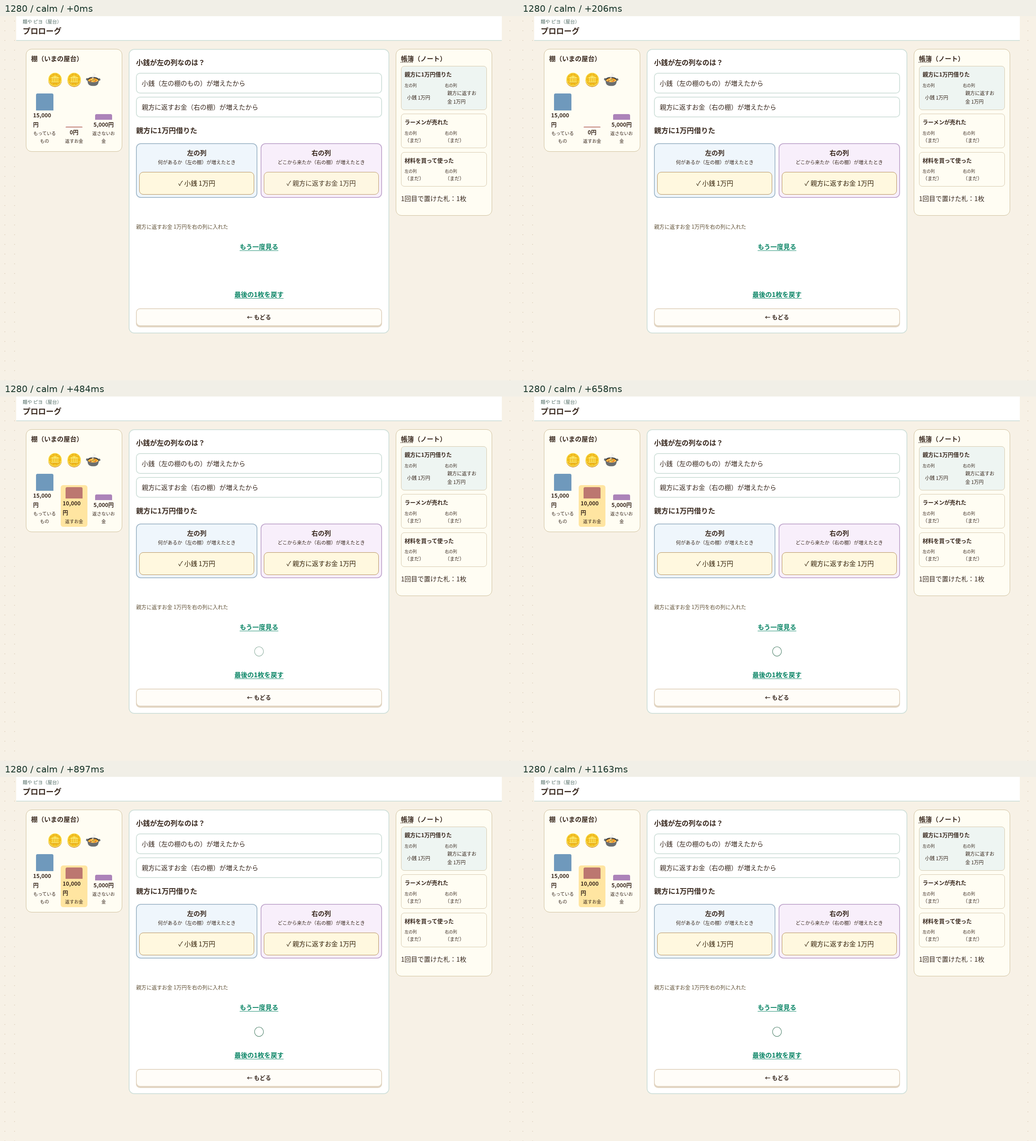
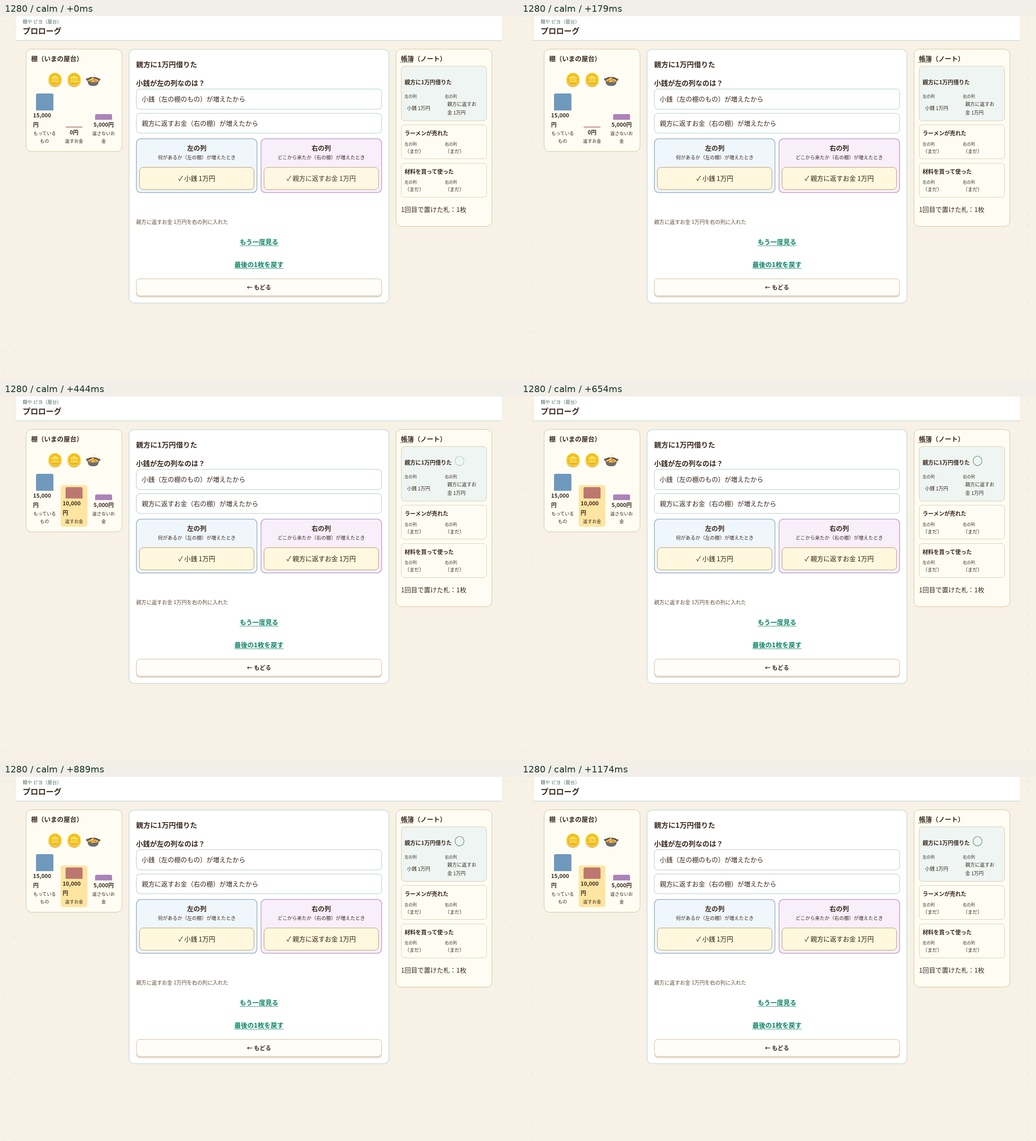
手本の音待ちと理由・行の印の位置、ブラウザ起動失敗時の終了を直す

diff --git a/boki2/js/sim/engine.js b/boki2/js/sim/engine.js
@@ -218,7 +218,7 @@
   const focusKey = (el) => (el && el.attributes ? [el.tagName, ...[...el.attributes].filter((a) => a.name.startsWith('data-') || a.name === 'name').map((a) => `${a.name}=${a.value}`)].join('|') : '');
   function frame(body, headerYear) {
     app.classList.remove('j-note-shell');
-    if (RAMEN && B.journal) { B.journal.cleanup(); B.journal.configure({ motion: S.motion, sound: S.sound || 'on', soundAsked: !!S.soundAsked }); }
+    if (RAMEN && B.journal) { B.journal.cleanup(); B.journal.configure({ motion: S.motion, sound: S.soundAsked ? (S.sound || 'on') : 'off', soundAsked: !!S.soundAsked }); }
     if(headerYear==null&&RAMEN&&!month())headerYear=D.months[D.months.length-1].year||1;
     const was = document.activeElement, key = kbUser && was && app.contains(was) && was !== app ? focusKey(was) : null, scrolled = window.scrollY;
     onFocus = null; app.oninput = null; app.onkeydown = null;
@@ -773,10 +773,10 @@
     const logo = RAMEN ? `<div class="s-logo" data-nofuri>${esc(shopName())}<br><b>ラーメン</b></div><p>屋台の一杯から、町いちばんの店へ。<br>一杯を作り、値段を決め、お金の出入りを記録して店を育てよう。</p>` : '<div class="s-logo">ピヨ<br><b>商店</b></div><p>小さな屋台が、工場をもつ会社になるまで。<br>お金の出入りを記録して、会社を育てよう。</p>';
     // セーブスロット（ラーメン版。n.15）：店ごとに3つ。学びの記録はスロットをまたいで共有
     const slots = RAMEN && DOC ? `<div class="s-who s-slots"><small>セーブスロット（学びの記録は共通）</small>${DOC.slots.map((sl, k) => `<button class="${sl.id === S.__slot ? 'on' : ''}" data-slot="${sl.id}">${k + 1}：${esc(sl.run && sl.label ? sl.label : 'あき')}</button>`).join('')}</div>` : '';
-    app.innerHTML = `<main class="s-main s-title">${logo}${slots}<p class="muted" style="font-size:.8rem">受験する年度：${esc(MODE_TXT[modeOf()])}</p>${who}<button class="btn wide" data-start>${started ? 'つづきから' : 'はじめる'}</button>${started ? '<button class="link" data-reset>最初からやり直す</button>' : ''}<details class="s-more"><summary>ゲームの設定</summary>${RAMEN && B.journal ? `<div class="s-who"><small>動きの強さ</small>${[['rich','派手'],['normal','ふつう'],['calm','控えめ']].map(([v,t]) => `<button data-motion="${v}" aria-pressed="${B.journal.motion(S.motion) === v}">${t}</button>`).join('')}</div><div class="s-who"><small>音</small>${[['on','出す'],['off','消す']].map(([v,t]) => `<button data-sound="${v}" aria-pressed="${(S.sound || 'on') === v}">${t}</button>`).join('')}</div>` : ''}${RAMEN && S.profileOk ? `<div class="s-who"><small>店の名前・あなたの名前（いま：${esc(shopName())}・${esc(playerName())}）</small><button data-rename>名前を変える</button></div>` : ''}<div class="s-who"><small>受験する年度（問題の出し方が変わる）</small><button class="${modeOf() === '2026' ? 'on' : ''}" data-mode="2026">2027年3月まで</button><button class="${modeOf() !== '2026' ? 'on' : ''}" data-mode="2027">2027年4月から</button></div>${S.pro3 && S.pro3.on ? '<div class="s-who"><small>近道（3級の型は自動）</small><button data-p3off>近道を切る（3級の型も手で書く）</button></div>' : ''}<div class="s-who"><small>ふりがな</small><button class="${S.furigana !== 'always' ? 'on' : ''}" data-furi="auto">はじめてと、押したとき</button><button class="${S.furigana === 'always' ? 'on' : ''}" data-furi="always">いつも</button></div><div class="s-who"><small>文字の大きさ（書類と表も同じ割合で大きくなる）</small>${[100, 125, 150].map((z) => `<button class="${(S.textScale || 100) === z ? 'on' : ''}" data-tscale="${z}">${z}%</button>`).join('')}</div><div class="s-who"><small>検定会場の時間（読むのに時間がかかる人のための、はじめからの延長）</small>${[0, 10, 20, 30].map((z) => `<button class="${(S.examExtra || 0) === z ? 'on' : ''}" data-exx="${z}">${z ? `+${z}分` : 'なし'}</button>`).join('')}</div><p class="muted" style="font-size:12px" data-saveword>${esc(saveWord())}</p><button class="btn wide ghost" data-export>保存データをファイルにする</button><label class="btn wide ghost s-file">ファイルから続きを読み込む<input type="file" accept="application/json,.json" data-import hidden></label><button class="btn wide ghost" data-test>確認テスト（協力してくれる人向け）</button></details></main>`;
+    app.innerHTML = `<main class="s-main s-title">${logo}${slots}<p class="muted" style="font-size:.8rem">受験する年度：${esc(MODE_TXT[modeOf()])}</p>${who}<button class="btn wide" data-start>${started ? 'つづきから' : 'はじめる'}</button>${started ? '<button class="link" data-reset>最初からやり直す</button>' : ''}<details class="s-more"><summary>ゲームの設定</summary>${RAMEN && B.journal ? `<div class="s-who"><small>動きの強さ</small>${[['rich','派手'],['normal','ふつう'],['calm','控えめ']].map(([v,t]) => `<button data-motion="${v}" aria-pressed="${B.journal.motion(S.motion) === v}">${t}</button>`).join('')}</div><div class="s-who"><small>音</small>${[['on','出す'],['off','消す']].map(([v,t]) => `<button data-sound="${v}" aria-pressed="${(S.soundAsked ? (S.sound || 'on') : 'off') === v}">${t}</button>`).join('')}</div>` : ''}${RAMEN && S.profileOk ? `<div class="s-who"><small>店の名前・あなたの名前（いま：${esc(shopName())}・${esc(playerName())}）</small><button data-rename>名前を変える</button></div>` : ''}<div class="s-who"><small>受験する年度（問題の出し方が変わる）</small><button class="${modeOf() === '2026' ? 'on' : ''}" data-mode="2026">2027年3月まで</button><button class="${modeOf() !== '2026' ? 'on' : ''}" data-mode="2027">2027年4月から</button></div>${S.pro3 && S.pro3.on ? '<div class="s-who"><small>近道（3級の型は自動）</small><button data-p3off>近道を切る（3級の型も手で書く）</button></div>' : ''}<div class="s-who"><small>ふりがな</small><button class="${S.furigana !== 'always' ? 'on' : ''}" data-furi="auto">はじめてと、押したとき</button><button class="${S.furigana === 'always' ? 'on' : ''}" data-furi="always">いつも</button></div><div class="s-who"><small>文字の大きさ（書類と表も同じ割合で大きくなる）</small>${[100, 125, 150].map((z) => `<button class="${(S.textScale || 100) === z ? 'on' : ''}" data-tscale="${z}">${z}%</button>`).join('')}</div><div class="s-who"><small>検定会場の時間（読むのに時間がかかる人のための、はじめからの延長）</small>${[0, 10, 20, 30].map((z) => `<button class="${(S.examExtra || 0) === z ? 'on' : ''}" data-exx="${z}">${z ? `+${z}分` : 'なし'}</button>`).join('')}</div><p class="muted" style="font-size:12px" data-saveword>${esc(saveWord())}</p><button class="btn wide ghost" data-export>保存データをファイルにする</button><label class="btn wide ghost s-file">ファイルから続きを読み込む<input type="file" accept="application/json,.json" data-import hidden></label><button class="btn wide ghost" data-test>確認テスト（協力してくれる人向け）</button></details></main>`;
     app.onclick = (e) => {
       const motion = e.target.closest('button[data-motion]'), sound = e.target.closest('[data-sound]');
-      if (motion || sound) { if (motion) S.motion = motion.dataset.motion; if (sound) { S.sound = sound.dataset.sound; S.soundAsked = true; } B.journal.configure({ motion: S.motion, sound: S.sound || 'on', soundAsked: !!S.soundAsked }); save(); titleScreen(); return; }
+      if (motion || sound) { if (motion) S.motion = motion.dataset.motion; if (sound) { S.sound = sound.dataset.sound; S.soundAsked = true; } B.journal.configure({ motion: S.motion, sound: S.soundAsked ? (S.sound || 'on') : 'off', soundAsked: !!S.soundAsked }); save(); titleScreen(); return; }
       if (e.target.closest('[data-start]')) { const go = () => { if (S.phase === 'title') S.phase = started ? 'event' : 'monthIntro'; save(); render(); }; if (!started && RAMEN && !S.profileOk) return nameScreen(() => (S.modeOk ? pro3Ask(go) : modeScreen(() => pro3Ask(go)))); if (!started && !S.modeOk) return modeScreen(() => pro3Ask(go)); go(); }
       if (e.target.closest('[data-reset]')) { if (!confirm(RAMEN ? 'このスロットの店を消して、最初からやり直しますか？（学びの記録は残る）' : 'この人の記録を消して、最初からやり直しますか？')) return; S = freshKeep(); S.phase = 'monthIntro'; save(); render(); }
       const pb = e.target.closest('[data-prof]');
@@ -1260,16 +1260,15 @@
       // 理由の位置を交互にし、答えの位置だけで進めない。
       const choices = li % 2 ? [1, 0] : [0, 1];
       const shelfHtml = `<aside class="j-shelf" aria-label="棚（いまの屋台）"><h3>棚（いまの屋台）</h3><div data-shelf-art class="j-shelf-art" role="img" aria-label="小銭と寸胴なべの絵">🪙 🪙 🍲</div><div class="j-bands">${names.map((name, k) => `<div data-band="${k}" class="j-band j-band-${k}"><div data-bar style="height:${Math.max(2, values[k] / 350)}px"></div><b data-number>${fmt(values[k])}円</b><small>${name}</small></div>`).join('')}</div></aside>`;
-      const notebook = `<aside class="j-notebook"><h3>帳簿（ノート）</h3>${s.lines.map((l, k) => `<section class="j-bookrow ${l.cards.every((_, ci) => sub[`${k}-${ci}`]) ? 'j-complete' : ''}" data-bookrow="${k}"><h4>${esc(l.title)}</h4><div>${['L', 'R'].map(side => `<div><small>${side === 'L' ? '左の列' : '右の列'}</small>${all.filter(c => c.li === k && sub[c.id] === side).map(c => `<button class="j-book-card" data-edit-row="${k}" data-edit-card="${c.id}" aria-label="${esc(J.label(c, true))}を直す">${esc(J.label(c, true))}</button>`).join('') || '（まだ）'}</div>`).join('')}</div></section>`).join('')}<p>1回目で置けた札：${(S.noteLog || []).filter(x => x.ev === ev.id && !x.demo && x.firstCorrect).length}枚</p></aside>`;
+      const notebook = `<aside class="j-notebook"><h3>帳簿（ノート）</h3>${s.lines.map((l, k) => `<section class="j-bookrow ${l.cards.every((_, ci) => sub[`${k}-${ci}`]) ? 'j-complete' : ''}" data-bookrow="${k}"><h4>${esc(l.title)}${l.cards.every((_, ci) => sub[`${k}-${ci}`]) ? ' <span data-circle class="j-circle" aria-label="行がそろった">○</span>' : ''}</h4><div>${['L', 'R'].map(side => `<div><small>${side === 'L' ? '左の列' : '右の列'}</small>${all.filter(c => c.li === k && sub[c.id] === side).map(c => `<button class="j-book-card" data-edit-row="${k}" data-edit-card="${c.id}" aria-label="${esc(J.label(c, true))}を直す">${esc(J.label(c, true))}</button>`).join('') || '（まだ）'}</div>`).join('')}</div></section>`).join('')}<p>1回目で置けた札：${(S.noteLog || []).filter(x => x.ev === ev.id && !x.demo && x.firstCorrect).length}枚</p></aside>`;
       const editLi = ns.editLi != null ? ns.editLi : li, shownCards = all.filter(c => c.li === editLi);
       const reason = complete && !ns.reasons[li] && !ready && ns.editLi == null;
       const ask = ns.askOpen != null && !sub['ask' + ns.askOpen] ? s.lines[ns.askOpen].ask : null;
       const blocked = ns.blocked ? `<div class="j-feedback" role="alert"><p data-react-text>${esc(ns.message)}</p><button class="btn" data-react-close>説明を閉じる</button></div>` : '';
-      const soundPrompt = !S.soundAsked ? `<div class="j-sound-prompt"><p>音を出す？</p><button data-j-sound="on">出す</button><button data-j-sound="off">消す</button></div>` : '';
-      const body = `<div class="j-layout" data-journal>${shelfHtml}<section class="s-card j-center">${soundPrompt}${reason ? `<p class="s-q">${reasonQs[li]}</p><div class="s-opts">${choices.map(k => `<button class="s-opt" data-note-reason="${li}-${k}">${reasonOpts[li][k]}</button>`).join('')}</div>` : `${ns.demoDone ? `<details class="j-say-again"><summary>ピヨの説明</summary>${talk(s.say)}</details>` : talk(s.say)}<p class="s-q">${esc(s.q)}</p>`}<h3>${esc(s.lines[editLi].title)}</h3>${sub.ask2 ? '<p class="j-reverse">へったときは反対の列</p>' : ''}${ask ? `${talk(ask.say)}<div class="s-opts">${ask.opts.map((o, k) => `<button class="s-opt" data-ask="${ns.askOpen}-${k}">${esc(o.t)}</button>`).join('')}</div>${msg ? `<p role="alert">${esc(msg)}</p>` : ''}` : ''}${J.markup({ cards: shownCards, columns: noteColumns, positions: sub, blocked: Object.keys(ns.blocks) })}${blocked}${ns.reasonMessage ? `<p class="s-react" role="status">${esc(ns.reasonMessage)}</p>` : ''}${ns.editLi != null ? '<button class="btn ghost" data-edit-done>ノートにもどる</button>' : ''}${!ns.demoDone ? '<p class="j-demo-text" data-demo-text>ピヨの手本。<strong class="j-keyword">小銭</strong>が増えた。左の棚のものが増えたから、左の列ピヨ</p><button class="btn ghost" data-demo-skip>手本を飛ばす</button>' : '<button class="link" data-demo-replay>もう一度見る</button>'}${ready ? `<p data-circle class="j-circle">○</p>${talk(s.after)}<button class="btn wide" data-step>つぎへ</button>` : reason ? '<p data-circle class="j-circle">○</p>' : ''}${hist.length ? '<button class="link" data-undo>最後の1枚を戻す</button>' : ''}<button class="btn ghost sm" data-back>← もどる</button></section>${notebook}</div>`;
+      const body = `<div class="j-layout" data-journal>${shelfHtml}<section class="s-card j-center">${reason ? '' : `${ns.demoDone ? `<details class="j-say-again"><summary>ピヨの説明</summary>${talk(s.say)}</details>` : talk(s.say)}<p class="s-q">${esc(s.q)}</p>`}<h3 data-note-title>${esc(s.lines[editLi].title)}</h3>${reason ? `<div data-note-reason-block><p class="s-q">${reasonQs[li]}</p><div class="s-opts">${choices.map(k => `<button class="s-opt" data-note-reason="${li}-${k}">${reasonOpts[li][k]}</button>`).join('')}</div></div>` : ''}${sub.ask2 ? '<p class="j-reverse">へったときは反対の列</p>' : ''}${ask ? `${talk(ask.say)}<div class="s-opts">${ask.opts.map((o, k) => `<button class="s-opt" data-ask="${ns.askOpen}-${k}">${esc(o.t)}</button>`).join('')}</div>${msg ? `<p role="alert">${esc(msg)}</p>` : ''}` : ''}${J.markup({ cards: shownCards, columns: noteColumns, positions: sub, blocked: Object.keys(ns.blocks) })}${blocked}${ns.reasonMessage ? `<p class="s-react" role="status">${esc(ns.reasonMessage)}</p>` : ''}${ns.editLi != null ? '<button class="btn ghost" data-edit-done>ノートにもどる</button>' : ''}${!ns.demoDone ? '<p class="j-demo-text" data-demo-text>ピヨの手本。<strong class="j-keyword">小銭</strong>が増えた。左の棚のものが増えたから、左の列ピヨ</p><button class="btn ghost" data-demo-skip>手本を飛ばす</button>' : '<button class="link" data-demo-replay>もう一度見る</button>'}${ready ? `${talk(s.after)}<button class="btn wide" data-step>つぎへ</button>` : ''}${hist.length ? '<button class="link" data-undo>最後の1枚を戻す</button>' : ''}<button class="btn ghost sm" data-back>← もどる</button></section>${notebook}</div>`;
       keepBoard(); frame(body); app.classList.add('j-note-shell'); $('#s-main', app)?.classList.add('j-main');
       const root = $('[data-journal]', app);
-      root.addEventListener('pointerdown', e => { if (!ns.demoDone && S.soundAsked && !e.target.closest('[data-j-sound]')) { e.preventDefault(); e.stopImmediatePropagation(); ns.demoSkipped = true; notePlace('0-0', 'L', { input: 'demo' }, true); } }, true);
+      root.addEventListener('pointerdown', e => { if (!ns.demoDone) { e.preventDefault(); e.stopImmediatePropagation(); ns.demoSkipped = true; notePlace('0-0', 'L', { input: 'demo' }, true); } }, true);
       noteDeck = J.deck({ root, cards: shownCards, columns: noteColumns, positions: sub, lastPlacedAt: ns.lastPlacedAt, onStart: noteStart, onPlace: notePlace, onRemove: noteRemove });
       noteDeck.layout(() => { const shelf = $('.j-shelf', root), deck = $('.j-deck', root); if (window.innerWidth < 1000) deck.after(shelf); else root.prepend(shelf); });
       // deck 外のボタンは board の委譲へ渡す。deck は自分の取っ手だけを受け持つ。
@@ -1299,7 +1298,7 @@
         }
       }
       if (!ns.speechDone) { ns.speechDone = true; const speech = $('.s-line p', root); if (speech) noteDeck.speech(speech, speech.textContent); }
-      if (!ns.demoDone && S.soundAsked) {
+      if (!ns.demoDone) {
         const el = $('[data-card="0-0"]', root), col = $('[data-col="L"]', root);
         if (el && J.motion(S.motion) !== 'calm') {
           const hand = document.createElement('span'); hand.className = 'j-demo-hand'; hand.textContent = '☞'; hand.setAttribute('aria-hidden', 'true'); el.append(hand);
@@ -1315,8 +1314,7 @@
       }
     };
     const noteAction = (e, s) => {
-      const b = e.target.closest('button'), ns = noteState(); if (!b) { if (!ns.demoDone && S.soundAsked) { ns.demoSkipped = true; notePlace('0-0', 'L', { input: 'demo' }, true); return true; } return false; }
-      if (b.hasAttribute('data-j-sound')) { S.soundAsked = true; S.sound = b.dataset.jSound; draw(); return true; }
+      const b = e.target.closest('button'), ns = noteState(); if (!b) { if (!ns.demoDone) { ns.demoSkipped = true; notePlace('0-0', 'L', { input: 'demo' }, true); return true; } return false; }
       if (b.hasAttribute('data-demo-skip')) { ns.demoSkipped = true; notePlace('0-0', 'L', { input: 'demo' }, true); return true; }
       if (b.hasAttribute('data-demo-replay')) { ns.demoDone = false; ns.demoSkipped = false; ns.shortDone = false; delete sub['0-0']; draw(); return true; }
       if (b.hasAttribute('data-react-close')) { if (Date.now() < ns.reactShownAt) return true; delete ns.blocks[ns.blocked]; ns.blocked = Object.keys(ns.blocks)[0] || null; ns.message = ns.blocked ? ns.blocks[ns.blocked] : ''; if (ns.blocked) { ns.reactShownAt = Date.now(); const c = noteCards(s).find(c => c.id === ns.blocked), r = noteRecord(c); if (r) r.reactShownAt = ns.reactShownAt; } draw(); return true; }

diff --git a/boki2/tools/playtest/journal-inputs.js b/boki2/tools/playtest/journal-inputs.js
@@ -2,6 +2,7 @@
 // note の実入力による通し検査。外部リクエストは遮断。進行状態を注入しない。
 'use strict';
 const assert = require('node:assert/strict'), fs = require('node:fs'), path = require('node:path'), http = require('node:http');
+const { browserPath } = require('./bot-runs');
 const { chromium } = require(process.env.PIYO_PLAYWRIGHT || 'playwright');
 const auto = require('./auto.js');
 const ROOT = path.resolve(__dirname, '../..'), OUT = path.resolve(process.env.JOURNAL_OUT || 'work/journal-evidence');
@@ -23,18 +24,25 @@ async function move(p, id, side, input) {
     await cdp.send('Input.dispatchTouchEvent', { type: 'touchEnd', touchPoints: [] }); await cdp.detach();
   }
 }
-async function prepare(p, origin) {
+async function prepare(p, origin, naturalDemo = false) {
   await p.goto(origin + '/ramen.html');
   const r = await auto(p, { style: 'idle', maxSteps: 100, stopWhen: async () => exists(p, '[data-journal]') }); assert(r.stopped); assert.deepEqual(r.overflow, []);
-  if (await exists(p, '[data-j-sound]')) await p.click('[data-j-sound="off"]');
-  if (await exists(p, '[data-demo-skip]')) await p.click('[data-demo-skip]');
+  assert.equal(await p.locator('[data-j-sound]').count(), 0, 'ノートで音の返事を待たない');
+  if (naturalDemo) {
+    await p.waitForSelector('[data-placed="0-0"]', { timeout: 4000 });
+    assert.equal(await p.evaluate(() => !!window.__sim.S.soundAsked), false, '音を選ばずに手本が進む');
+  } else if (await exists(p, '[data-demo-skip]')) await p.click('[data-demo-skip]');
   await p.waitForTimeout(510);
 }
 async function complete(p, input) {
   for (let step = 0; step < 30; step++) {
     if (await exists(p, '[data-step]')) return;
     if (await exists(p, '[data-ask]')) { await p.click('[data-ask="2-0"]'); continue; }
-    if (await exists(p, '[data-note-reason]')) { const li = (await p.getAttribute('[data-note-reason]', 'data-note-reason')).split('-')[0]; const sel = `[data-note-reason="${li}-0"]`; await p.click(sel); await p.waitForSelector(sel, { state: 'detached' }); continue; }
+    if (await exists(p, '[data-note-reason]')) { const li = (await p.getAttribute('[data-note-reason]', 'data-note-reason')).split('-')[0]; const sel = `[data-note-reason="${li}-0"]`;
+      assert(await p.locator('[data-note-title]').evaluate(el => el.nextElementSibling.hasAttribute('data-note-reason-block')), '理由は出来事のすぐ下');
+      assert.equal(await p.locator('.j-center [data-circle]').count(), 0, '○を操作ボタンの間に出さない');
+      assert.equal(await p.locator(`[data-bookrow="${li}"] [data-circle]`).count(), 1, 'そろった帳簿の行に○');
+      await p.click(sel); await p.waitForSelector(sel, { state: 'detached' }); continue; }
     const id = await p.getAttribute('[data-card]', 'data-card'); assert(id, '次の札がある');
     const side = await p.evaluate(id => { const [li, ci] = id.split('-').map(Number); return window.__sim.events()[window.__sim.S.ei].steps.find(s => s.k === 'note').lines[li].cards[ci].side; }, id);
     await move(p, id, side, input);
@@ -44,13 +52,14 @@ async function complete(p, input) {
 }
 async function main() {
   fs.mkdirSync(OUT, { recursive: true }); const { s, origin } = await server();
-  const b = await chromium.launch({ executablePath: process.env.PIYO_CHROMIUM || '/usr/bin/chromium', headless: true, args: ['--no-sandbox'] });
-  let checks = 0;
+  let b;
   try {
+    b = await chromium.launch({ executablePath: browserPath(), headless: true, args: ['--no-sandbox'] });
+    let checks = 0;
     for (const width of [390, 1280]) for (const input of ['tap', 'keyboard', 'drag', 'swipe']) {
       const errors = [], c = await b.newContext({ viewport: { width, height: 900 }, hasTouch: input === 'swipe', reducedMotion: 'reduce' });
       await c.route('**/*', r => r.request().url().startsWith(origin + '/') ? r.continue() : r.abort());
-      const p = await c.newPage(); p.on('pageerror', e => errors.push(e.message)); p.setDefaultTimeout(5000); await prepare(p, origin);
+      const p = await c.newPage(); p.on('pageerror', e => errors.push(e.message)); p.setDefaultTimeout(5000); await prepare(p, origin, input === 'tap');
       if (width === 1280) assert(await p.locator('[data-journal]').evaluate(el => el.getBoundingClientRect().width > 1000), 'PCは3段の枠を広く使う');
       assert.match(await p.locator('[data-card="0-1"]').getAttribute('aria-label'), /手札/);
       assert.match(await p.locator('[data-placed="0-0"]').getAttribute('aria-label'), /押すと直せる/);
@@ -85,7 +94,7 @@ async function main() {
       console.log(`OK：${width} ${motion} 録画・連続画面写真・実Animation`);
     }
     console.log(`OK：noteブラウザ検査 ${checks}件`);
-  } finally { await b.close(); s.close(); }
+  } finally { try { if (b) await b.close(); } finally { await new Promise(r => s.close(r)); } }
 }
 if (require.main === module) main().catch(e => { console.error(e); process.exitCode = 1; });
 module.exports = { main, prepare, complete, move, server };

diff --git a/boki2/tools/playtest/journal-boundaries.js b/boki2/tools/playtest/journal-boundaries.js
@@ -2,10 +2,13 @@
 // 入れなかった操作が誤答に数えられないこと、連打とキャンセルを確かめる。
 'use strict';
 const assert = require('node:assert/strict'), { chromium } = require(process.env.PIYO_PLAYWRIGHT || 'playwright');
+const { browserPath } = require('./bot-runs');
 const { prepare, move, server } = require('./journal-inputs');
 (async () => {
-  const { s, origin } = await server(), b = await chromium.launch({ executablePath: process.env.PIYO_CHROMIUM || '/usr/bin/chromium', args: ['--no-sandbox'] });
+  const { s, origin } = await server();
+  let b;
   try {
+    b = await chromium.launch({ executablePath: browserPath(), args: ['--no-sandbox'] });
     for (const width of [390, 1280]) {
       const c = await b.newContext({ viewport: { width, height: 900 }, hasTouch: true, reducedMotion: 'reduce' }); await c.route('**/*', r => r.request().url().startsWith(origin + '/') ? r.continue() : r.abort()); const p = await c.newPage(); p.setDefaultTimeout(5000); await prepare(p, origin);
       await p.locator('[data-card="0-1"]').focus(); await p.keyboard.press('Space'); await p.keyboard.press('ArrowLeft'); await p.keyboard.press('Escape');
@@ -41,5 +44,5 @@ const { prepare, move, server } = require('./journal-inputs');
       await move(p, '1-0', 'L', 'tap'); await move(p, '1-1', 'R', 'tap');
       assert.equal(await p.locator('.j-ghost').count(), 0); await c.close(); console.log(`OK：${width} Esc・小さいスワイプ・縦スクロール・touchCancel・連打300ms・連続誤答の保持・2枚の個別ロック`);
     }
-  } finally { await b.close(); s.close(); }
+  } finally { try { if (b) await b.close(); } finally { await new Promise(r => s.close(r)); } }
 })().catch(e => { console.error(e); process.exitCode = 1; });

diff --git a/boki2/js/sim/journal-ui.js b/boki2/js/sim/journal-ui.js
@@ -209,7 +209,7 @@
         }
           anim(row, [{ backgroundColor: '#fff4bd' }, { backgroundColor: '#eef5f2' }], { duration: 150 });
         }, delay);
-        const circle = root.closest('.j-layout')?.querySelector('[data-circle]'); if (circle) anim(circle, settings.motion === 'calm' ? [{ opacity: 0 }, { opacity: 1 }] : [{ transform: 'scale(.6)' }, { transform: 'scale(1.15)' }, { transform: 'scale(1)' }], { delay: phase('row', 'circle').start, duration: phase('row', 'circle').duration, fill: 'backwards' });
+        const circle = row?.querySelector('[data-circle]'); if (circle) anim(circle, settings.motion === 'calm' ? [{ opacity: 0 }, { opacity: 1 }] : [{ transform: 'scale(.6)' }, { transform: 'scale(1.15)' }, { transform: 'scale(1)' }], { delay: phase('row', 'circle').start, duration: phase('row', 'circle').duration, fill: 'backwards' });
       },
       speech(el, full) {
         if (!el || settings.motion === 'calm') return;

diff --git a/boki2/css/sim.css b/boki2/css/sim.css
@@ -517,7 +517,7 @@ html.s-big .cbt-head { position: static !important; }
 .j-book-card { font:inherit; border:0; background:transparent; color:inherit; display:block; width:100%; text-align:left; min-height:44px; overflow-wrap:anywhere; cursor:pointer; }
 .j-complete { background:#eef5f2; }
 .j-feedback { background:#fff1dc; border-left:4px solid #ab5529; padding:.6rem; }
-.j-circle { color:#417960; font-size:1.6rem; font-weight:bold; text-align:center; margin:.2rem; }
+.j-circle { display:inline-block; color:#417960; font-size:1.6rem; font-weight:bold; text-align:center; margin:.2rem; }
 .j-demo-hand { display:inline-block; position:absolute; font-size:2rem; pointer-events:none; }
 .j-reverse { background:#fff1c3; padding:.35rem; font-weight:bold; }
 .j-sound-prompt { padding:.5rem; background:#fff1c3; }
